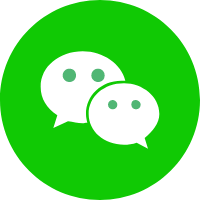
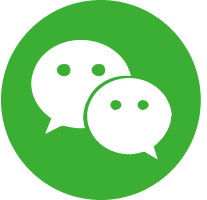
DZ-258 提现记录以及详情兼容微信记录

diff --git a/src/screens/withdraw/components/WithdrawLogItem.js b/src/screens/withdraw/components/WithdrawLogItem.js
@@ -4,12 +4,16 @@
  */
 'use strict';
 import React, { Component } from 'react';
-import { StyleSheet, View, TouchableOpacity, Text } from 'react-native';
+import { StyleSheet, View, TouchableOpacity, Text, Image } from 'react-native';
 import { Theme, PxFit, SCREEN_WIDTH } from '../../../utils';
+import { Row } from 'components';
 
 function WithdrawLogItem(props) {
     const { style, navigation, item } = props;
-    let statusText, color;
+    let statusText,
+        color,
+        image_url,
+        size = 40;
     switch (item.status) {
         case -1:
             statusText = '提现失败';
@@ -24,6 +28,20 @@ function WithdrawLogItem(props) {
             color = Theme.correctColor;
             break;
     }
+
+    switch (item.to_platform) {
+        case 'alipay':
+            image_url = require('../../../assets/images/alipay.png');
+            break;
+        case 'wechat':
+            image_url = require('../../../assets/images/wechat.png');
+            break;
+        default:
+            image_url = require('../../../assets/images/money_icon.png');
+            size = 46;
+            break;
+    }
+
     return (
         <TouchableOpacity
             style={[styles.item, style]}
@@ -34,18 +52,21 @@ function WithdrawLogItem(props) {
                     withdraw_id: item.id,
                 })
             }>
-            <View style={{ width: (SCREEN_WIDTH * 5) / 7 }}>
-                <Text style={{ fontSize: PxFit(15), color: Theme.defaultTextColor }}>
-                    {statusText}
-                    <Text style={{ fontSize: 15, color: Theme.themeRed }}>{item.remark && `   (${item.remark})`}</Text>
-                </Text>
-                <Text style={{ fontSize: PxFit(12), color: Theme.subTextColor, paddingTop: PxFit(10) }}>
-                    {item.created_at}
-                </Text>
-            </View>
-            <View>
-                <Text style={{ fontSize: PxFit(20), color }}>￥{item.amount.toFixed(0)}.00</Text>
-            </View>
+            <Image source={image_url} style={{ width: size, height: size, marginVertical: PxFit(15) }} />
+            <Row style={styles.content}>
+                <View style={{ width: (SCREEN_WIDTH * 4) / 7 }}>
+                    <Text style={styles.statusText}>{statusText}</Text>
+                    {item.remark && (
+                        <Text
+                            style={{ fontSize: 12, color: Theme.themeRed }}
+                            numberOfLines={1}>{`${item.remark}`}</Text>
+                    )}
+                    <Text style={styles.time}>{item.created_at}</Text>
+                </View>
+                <View>
+                    <Text style={{ fontSize: PxFit(20), color }}>￥{item.amount.toFixed(0)}.00</Text>
+                </View>
+            </Row>
         </TouchableOpacity>
     );
 }
@@ -53,12 +74,30 @@ function WithdrawLogItem(props) {
 const styles = StyleSheet.create({
     item: {
         flexDirection: 'row',
-        alignItems: 'center',
+        alignItems: 'flex-start',
         justifyContent: 'space-between',
-        paddingVertical: 10,
+        paddingHorizontal: 15,
+    },
+    image: {
+        width: 40,
+        height: 40,
+        marginVertical: PxFit(15),
+    },
+    content: {
         borderBottomColor: Theme.lightBorder,
         borderBottomWidth: 0.5,
-        paddingHorizontal: 15,
+        paddingVertical: 15,
+        alignItems: 'flex-start',
+    },
+    statusText: {
+        fontSize: PxFit(16),
+        color: Theme.defaultTextColor,
+        lineHeight: PxFit(22),
+    },
+    time: {
+        fontSize: PxFit(12),
+        color: Theme.subTextColor,
+        lineHeight: PxFit(22),
     },
 });
 

diff --git a/src/screens/withdraw/WithdrawLogDetails.js b/src/screens/withdraw/WithdrawLogDetails.js
@@ -22,7 +22,7 @@ class WithdrawLogDetails extends Component {
         const { navigation } = this.props;
         const { withdraw_id } = navigation.state.params;
         return (
-            <PageContainer title="提现详情" white>
+            <PageContainer title='提现详情' white>
                 <Query
                     query={GQL.WithdrawQuery}
                     variables={{
@@ -76,12 +76,18 @@ class WithdrawLogDetails extends Component {
                                         )}
                                     </View>
                                     <View style={styles.row}>
-                                        <Text style={styles.textLeft}> 提现单号 </Text>
-                                        <Text style={styles.textRight}> {withdraw.biz_no} </Text>
+                                        <Text style={styles.textLeft}>提现平台 </Text>
+                                        <Text style={styles.textRight}>
+                                            {withdraw.to_platform == 'alipay' ? '支付宝' : '微信'}{' '}
+                                        </Text>
                                     </View>
                                     <View style={styles.row}>
-                                        <Text style={styles.textLeft}> 转账备注 </Text>
-                                        <Text style={styles.textRight}> 智慧点提现 </Text>
+                                        <Text style={styles.textLeft}>提现单号 </Text>
+                                        <Text style={styles.textRight}>{withdraw.biz_no} </Text>
+                                    </View>
+                                    <View style={styles.row}>
+                                        <Text style={styles.textLeft}>转账备注 </Text>
+                                        <Text style={styles.textRight}>智慧点提现 </Text>
                                     </View>
                                     <View
                                         style={[
@@ -90,7 +96,7 @@ class WithdrawLogDetails extends Component {
                                                 paddingBottom: PxFit(15),
                                             },
                                         ]}>
-                                        <Text style={styles.textLeft}> 收款账户 </Text>
+                                        <Text style={styles.textLeft}>收款账户 </Text>
                                         <Text style={styles.textRight}>
                                             {withdraw.to_account + '(' + app.me.wallet.real_name + ')'}
                                         </Text>
@@ -110,7 +116,7 @@ class WithdrawLogDetails extends Component {
                                                 paddingBottom: PxFit(15),
                                             },
                                         ]}>
-                                        <Text style={styles.textLeft}> 支付宝订单号 </Text>
+                                        <Text style={styles.textLeft}>订单号 </Text>
                                         <Text style={styles.text}> {withdraw.trade_no} </Text>
                                     </View>
                                 </View>
@@ -192,7 +198,7 @@ const styles = StyleSheet.create({
         paddingTop: PxFit(15),
         flexDirection: 'row',
         justifyContent: 'space-between',
-        borderTopWidth: PxFit(1),
+        borderTopWidth: PxFit(0.5),
         borderTopColor: Theme.borderColor,
     },
     footer: {
